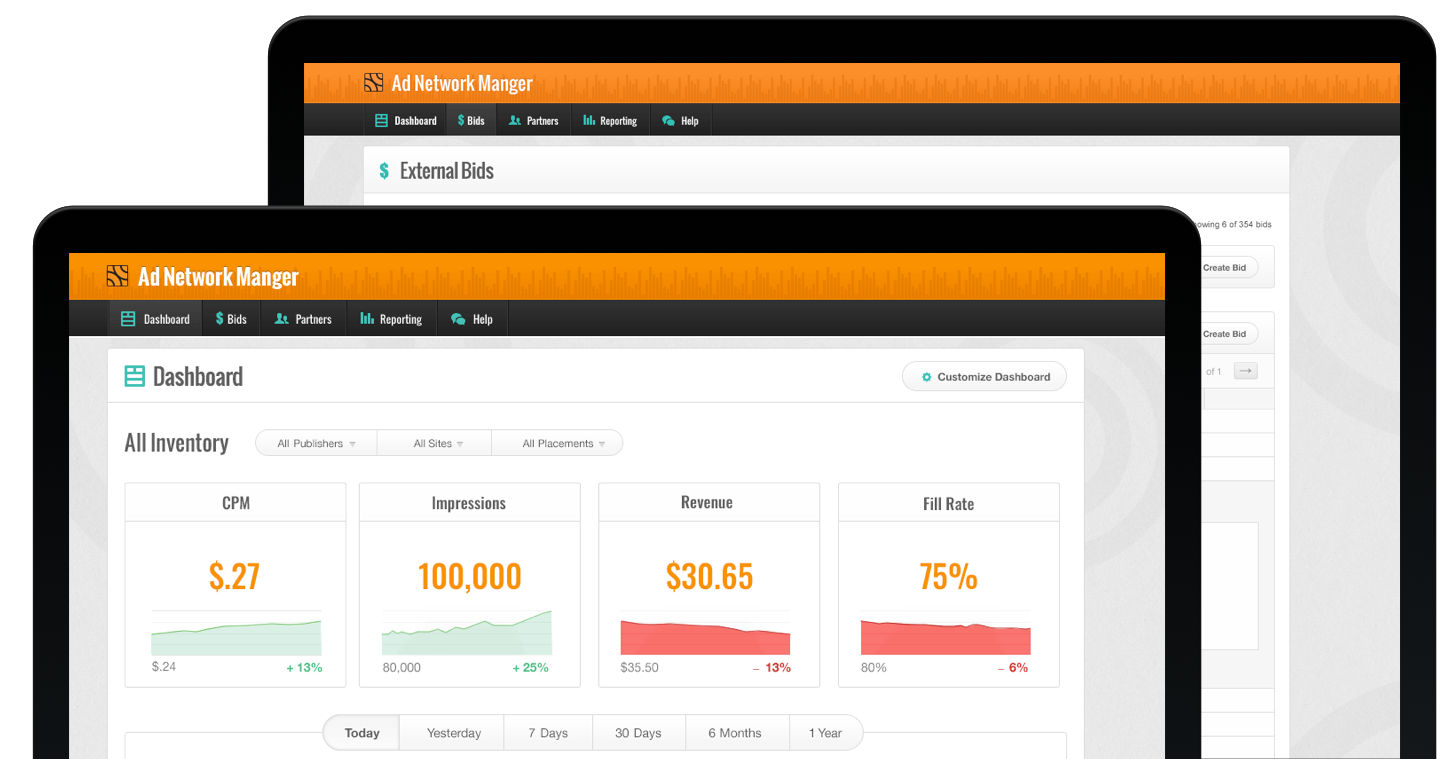
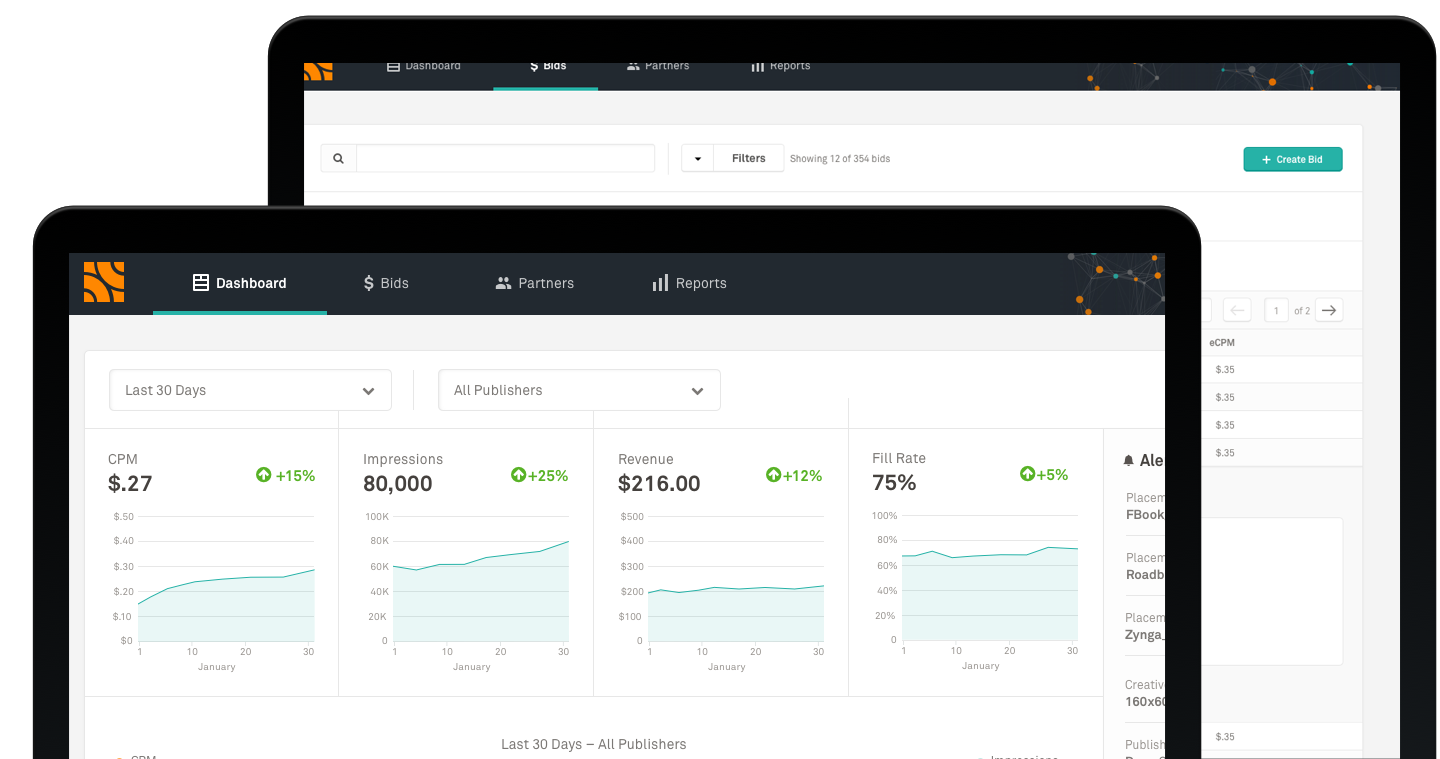
Update ANM to use new screens

diff --git a/_works/appnexus-ad-network-manager.html b/_works/appnexus-ad-network-manager.html
@@ -27,7 +27,7 @@ excerpt2: I was the lead designer for this project, which included all UX, Visua
 </div>
 
 <div class="u-textCenter">
-	<img class="Image" src="/assets/img/work/anm/anm_filters.png" />
+	<img class="Image" src="/assets/img/work/anm/ANM_Bids_Search.png" />
 </div>
 
 <div class="Container--text">
@@ -35,13 +35,13 @@ excerpt2: I was the lead designer for this project, which included all UX, Visua
 	<p>The filters resulted in a huge decrease in time spent locating and managing campaigns, but the real key was going to be search. It needed to be upfront, discoverable and provide instant results. We tested a few options and found the greatest performance with the layout below.</p>
 </div>
 <div class="u-textCenter">
-	<img class="Image" src="/assets/img/work/anm/anm_search.png" />
-	<img class="Image" src="/assets/img/work/anm/bid_table.png" />
+	<img class="Image" src="/assets/img/work/anm/ANM_Bids_Filters.png" />
+	<img class="Image" src="/assets/img/work/anm/ANM_Bids.png" />
 </div>
 <div class="Container--text">
 	<h2 class="Work-section">INSIGHTS TO DELIGHT</h2>
 	<p>We greatly simplified the process to manage campaigns within ANM, however, many clients were still optimizing hundreds per advertiser. Gathering insights regarding performance and revenue was crucial. Allowing a user to quickly log in, review the current status of all their campaigns was extremely valuable. We received many feature requests for reporting, quick graphs and status updates for any campaigns with issues. The result of this work was the dashboard shown below.</p>
 </div>
 <div class="u-textCenter">
-	<img class="Image" src="/assets/img/work/anm/dashboard.png" />
+	<img class="Image" src="/assets/img/work/anm/ANM_Dashboard.png" />
 </div>
